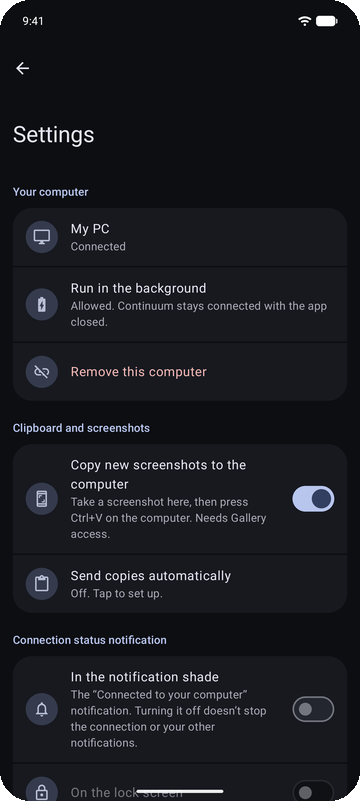
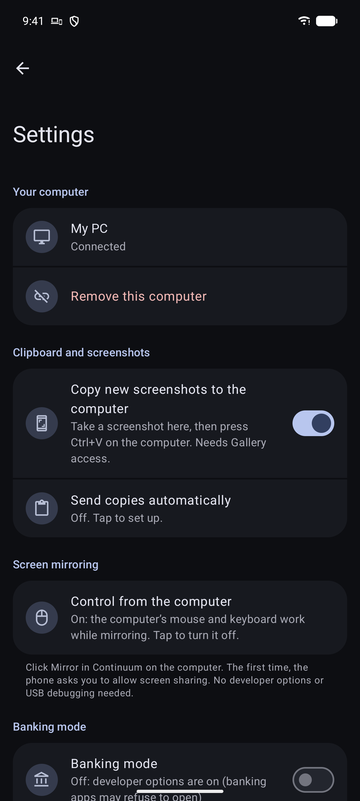
docs: README shows phone mirroring (how to use it) and Banking mode, light and dark screenshots

diff --git a/README.md b/README.md
@@ -3,7 +3,7 @@
 <h1 align="center">Continuum</h1>
 
 <p align="center"><b>Your Android phone, at home on Linux.</b><br>
-Photos, messages, notifications, files and one clipboard between your phone and your GNOME desktop.<br>
+Mirror and use your phone on the desktop. Photos, messages, notifications, files and one clipboard, all on GNOME.<br>
 Like Phone Link and Apple Continuity, but open source and private: no cloud, no account.</p>
 
 <p align="center">
@@ -13,7 +13,52 @@ Like Phone Link and Apple Continuity, but open source and private: no cloud, no 
   <a href="https://sharjeelmazhar.github.io/continuum/"><img alt="Website" src="https://img.shields.io/badge/website-continuum-7c6cff"></a>
 </p>
 
-<p align="center"><img src="docs/assets/desktop-photos.png" width="880" alt="Continuum on GNOME showing a phone's photo gallery"></p>
+<p align="center">
+  <picture>
+    <source media="(prefers-color-scheme: dark)" srcset="docs/assets/hero-dark.png">
+    <img src="docs/assets/hero-light.png" width="900" alt="Continuum on GNOME: the phone's photo gallery, with the phone's screen mirrored in its own window">
+  </picture>
+</p>
+
+## Phone mirroring
+See your phone's screen in a window on your computer and use it with your mouse and keyboard:
+tap, swipe, scroll and type into any app. Wireless, no cable, no developer options.
+
+<table>
+<tr>
+<td width="300">
+  <picture>
+    <source media="(prefers-color-scheme: dark)" srcset="docs/assets/mirror-dark.png">
+    <img src="docs/assets/mirror-light.png" width="280" alt="The phone's screen in a window on the computer">
+  </picture>
+</td>
+<td>
+
+**How to mirror your phone**
+1. On the computer, open **Continuum** and click **Mirror**. You can also open the
+   **Phone Mirroring** app, or tap the **Mirror** tile in the phone's Quick Settings.
+2. On the phone, tap **Share screen** (Android asks each time, for your privacy).
+3. Your phone appears in its own window. Use it like the phone itself.
+
+**Using it**
+- Click to tap, drag to swipe, scroll with the mouse wheel or touchpad.
+- Type with your keyboard into any app, emoji included.
+- Hover above the phone for **Back**, **Home**, **Recent apps**, **Screenshot** and **Close**.
+- Drag the corner to make it bigger or smaller.
+- To control the phone (not only watch it), turn on **Settings → Screen mirroring →
+  Control from the computer** on the phone once.
+
+Up to 60 fps at full screen resolution, using the phone's hardware video encoder.
+Close the window and sharing ends at once.
+
+</td>
+</tr>
+</table>
+
+### Banking mode
+Some banking apps refuse to open while developer options are on. Turn on **Banking mode**
+(phone **Settings**, or its Quick Settings tile) and Continuum turns developer options and USB
+debugging off; turn it off again and they come back as they were.
 
 ## Screenshots
 
@@ -23,13 +68,15 @@ Like Phone Link and Apple Continuity, but open source and private: no cloud, no 
 |---|---|---|
 | <img src="docs/assets/desktop-messages.png" alt="Messages: SMS conversations with a reply box"> | <img src="docs/assets/desktop-notifications.png" alt="Phone notifications with quick reply"> | <img src="docs/assets/desktop-storage.png" alt="Browsing the phone's folders"> |
 
-**On the phone** (Jetpack Compose, light and dark)
+**On the phone** (Jetpack Compose; follows your light or dark theme)
 
-| Home | Settings | Home (dark) | Settings (dark) |
-|---|---|---|---|
-| <img src="docs/assets/phone-home.png" width="200" alt="Phone app home"> | <img src="docs/assets/phone-settings.png" width="200" alt="Phone app settings"> | <img src="docs/assets/phone-home-dark.png" width="200" alt="Phone app home, dark"> | <img src="docs/assets/phone-settings-dark.png" width="200" alt="Phone app settings, dark"> |
+| Home | Settings |
+|---|---|
+| <picture><source media="(prefers-color-scheme: dark)" srcset="docs/assets/phone-home-dark.png"><img src="docs/assets/phone-home.png" width="260" alt="Phone app home"></picture> | <picture><source media="(prefers-color-scheme: dark)" srcset="docs/assets/phone-settings-dark.png"><img src="docs/assets/phone-settings.png" width="260" alt="Phone app settings with Screen mirroring and Banking mode"></picture> |
 
 ## Features
+- 📱 **Phone mirroring.** Your phone's screen in a window, controlled with your mouse and keyboard.
+- 🏦 **Banking mode.** Developer options off with one tap, so banking apps open; back on with another.
 - 🖼 **Gallery.** Your photos and videos, with videos playing in the app. Select several and copy them straight into Files or a chat.
 - 💬 **Messages.** SMS conversations with contact photos; reply from your PC keyboard, with typing help.
 - 🔔 **Notifications** from the phone, with quick reply and their own buttons. Dismiss on the PC and it's gone from the phone.
@@ -43,8 +90,8 @@ Like Phone Link and Apple Continuity, but open source and private: no cloud, no 
 - 🗂 **Separate notification categories** on the phone, so you pick which Continuum alerts you see.
 - 🌿 **Battery-friendly.** An adaptive connection: responsive while you use it, nearly idle when you don't. Reconnects by itself.
 
-Coming next: calls with an incoming-call banner, phone mirroring, a per-app notification
-allowlist and media controls. See the [roadmap](docs/ROADMAP.md).
+Coming next: calls with an incoming-call banner, a per-app notification allowlist and media
+controls. See the [roadmap](docs/ROADMAP.md).
 
 ## Install
 
@@ -91,7 +138,7 @@ See [docs/ARCHITECTURE.md](docs/ARCHITECTURE.md).
 Details in [docs/PROTOCOL.md](docs/PROTOCOL.md).
 
 ## Roadmap
-Calls (M8), phone mirroring (M9), KDE Plasma support and more: see [docs/ROADMAP.md](docs/ROADMAP.md)
+Calls (M8), KDE Plasma support and more: see [docs/ROADMAP.md](docs/ROADMAP.md)
 and the current status in [PROGRESS.md](PROGRESS.md).
 
 ## License

diff --git a/PROGRESS.md b/PROGRESS.md
@@ -68,6 +68,7 @@
 | M11 | Hardening and release | ☐ |
 
 ## Log (newest first)
+- 4 November 2026: README: Phone mirroring section (how to mirror, controls), Banking mode, light/dark images via `<picture>` (hero = desktop window + mirror window, emulator demo content; computer name painted as "My PC" because the phone keeps the name from pairing). Mirroring survived a light/dark switch on the phone. Release run hit GitHub 500s (outage); rerun.
 - 4 November 2026: v0.5.10. Mirroring survived YouTube: video apps take the phone's hardware encoder; now rebuilt on the same connection (smaller hardware, then software, full size every 30 s). Full 60 fps resolution and ~0.2 bit/pixel bitrate (up to 50 Mbit/s, encoder-capped, RateControl backs off). Wi-Fi lock (power save off), URGENT_DISPLAY encoder thread, Qualcomm low-latency vendor key. Desktop logs why a stream ended. Tested on the Redmi: 20 Shorts swipes without a drop, 720x1600 hardware at ~55-60 fps during video. Found phone-ping broken (GSConnect gone).
 - 4 November 2026: v0.5.9 released (Phone Mirroring, Banking mode, Mirror tile, fixes). CI and Release green; APK, desktop bundle, deb/rpm/Arch on the release; apt/dnf/pacman repos and website updated.
 - 4 November 2026: review + fixes before 0.5.9. Desktop announces `mirror.view` (it never advertised mirroring, so the phone's Mirror tile gave up); the phone sends heartbeats / `mirror.request` only to such desktops (older desktops ended the stream on a zero-length frame). Mirror tile asks "Start now" right away and keeps the permission 30 s for the computer; tested end to end on the Android 17 emulator (tile -> PC window -> stream -> close -> notification and service gone). Hint detection never wipes text in fields without selection support. Banking mode keeps saved helpers if switched on twice and matches accessibility entries in short or long form. Remote control row always visible (security). Resize grips measured in surface coordinates (no swinging). Pairing refused while the port isn't bound yet. Stop-then-start race fixed (`stopping`).
